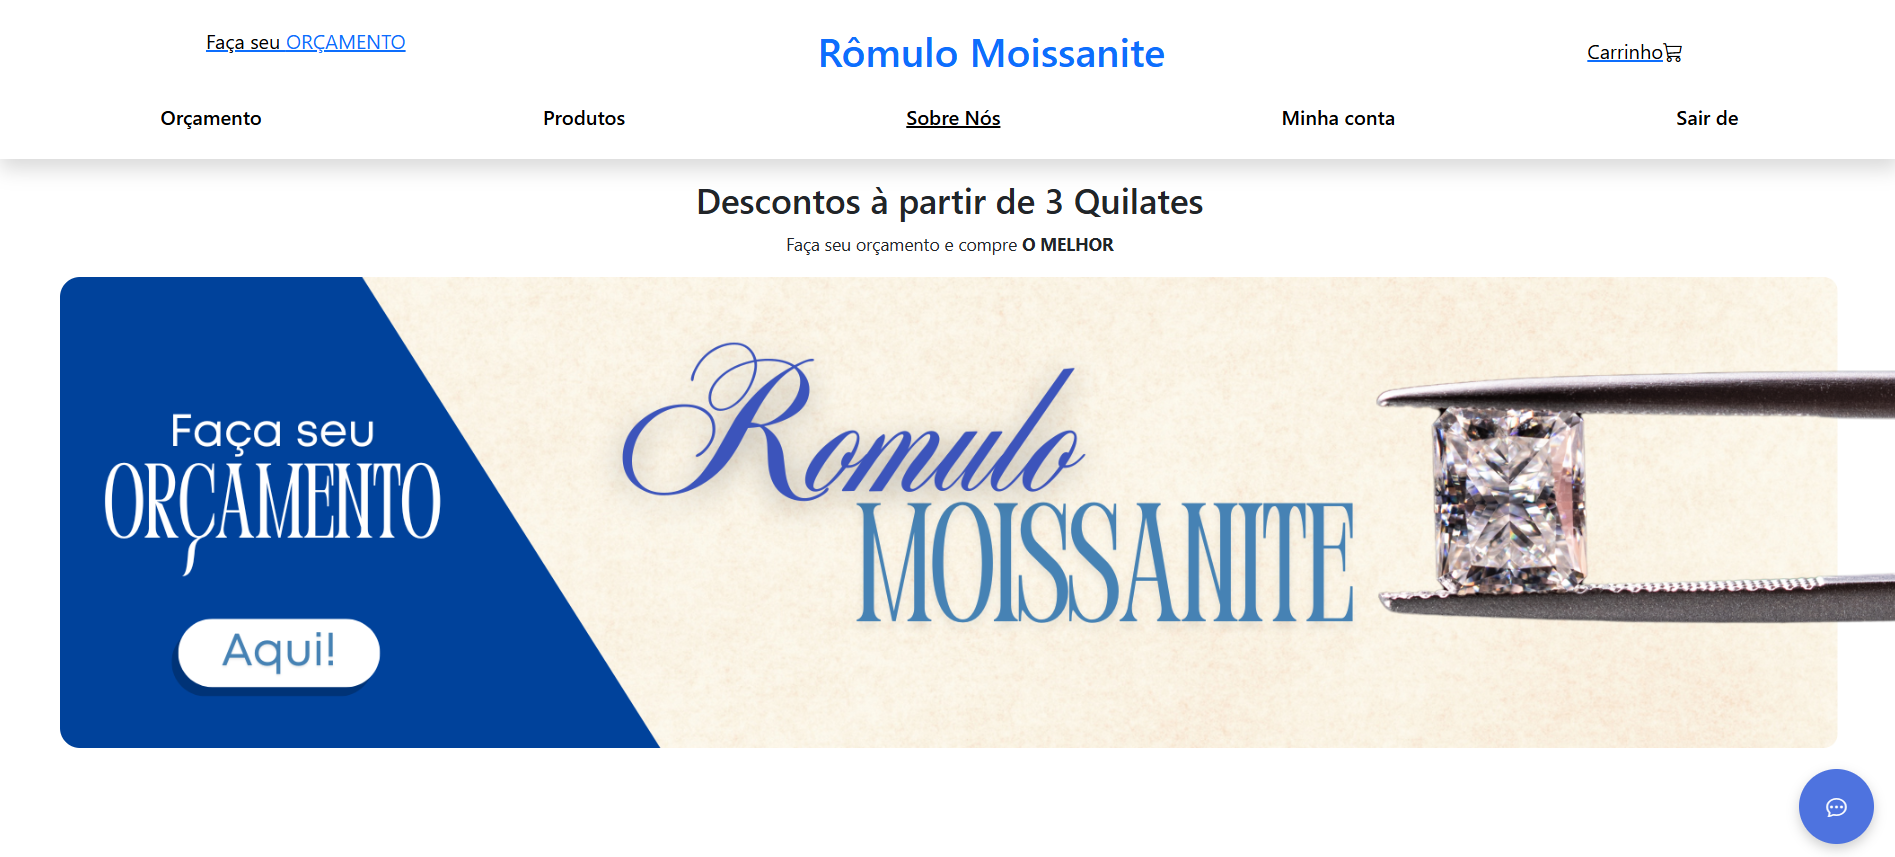
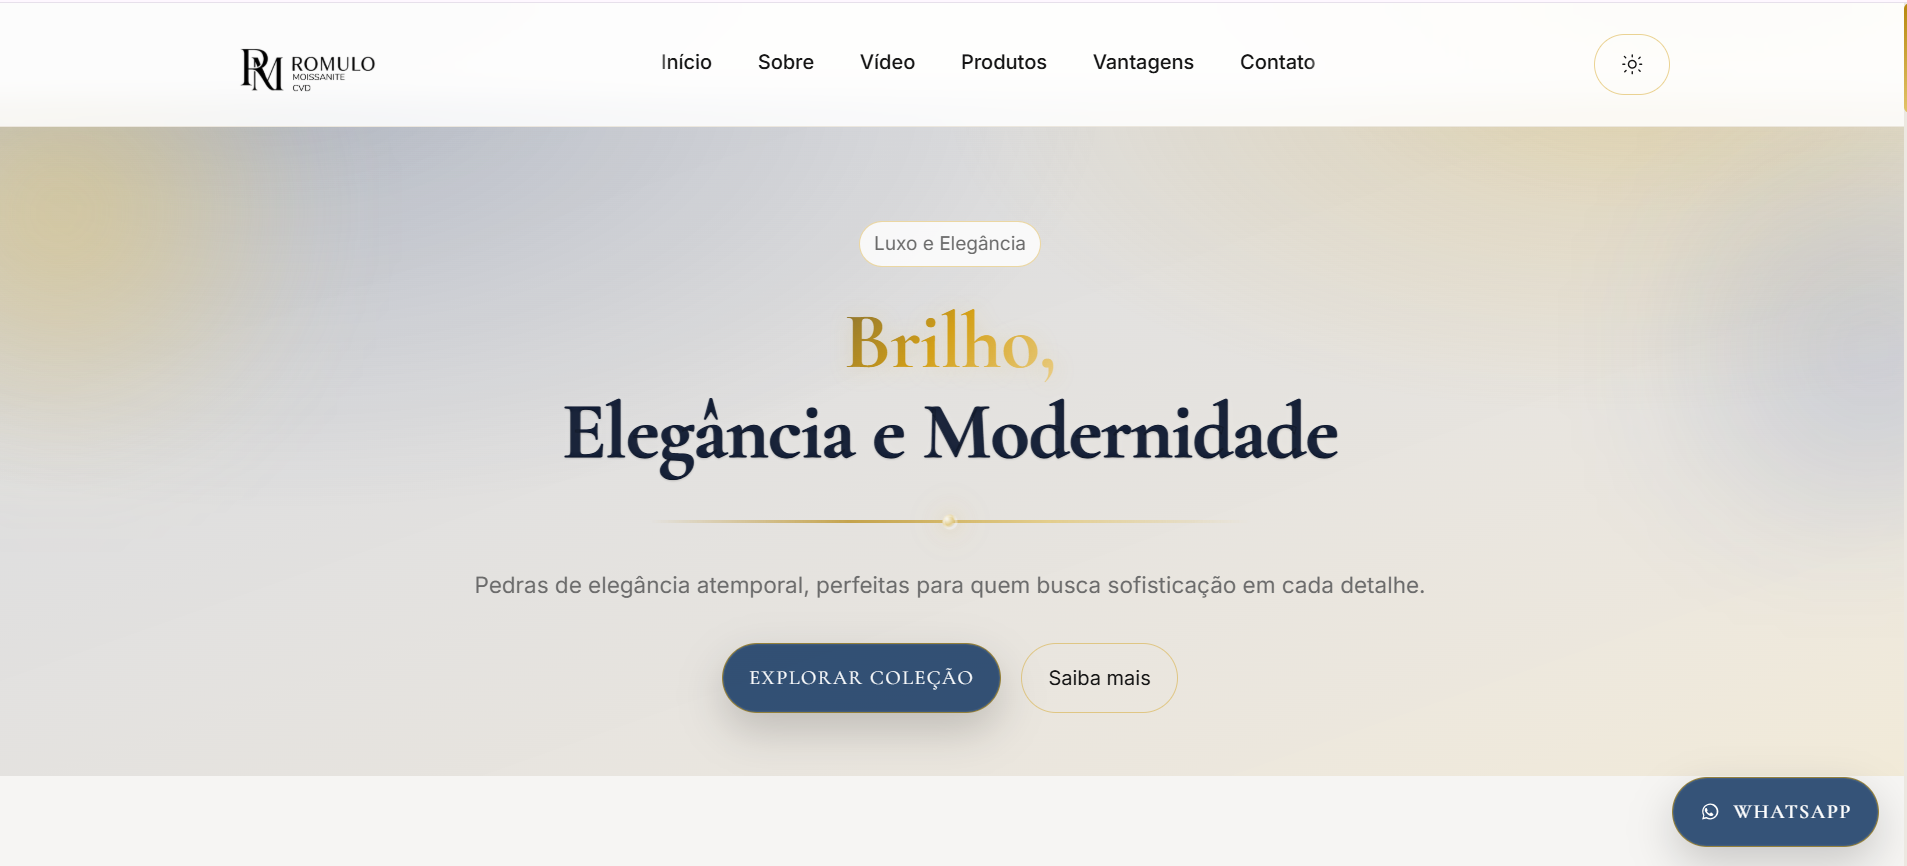
Updates

diff --git a/index.html b/index.html
@@ -5,7 +5,7 @@
     <link rel="icon" type="image/svg+xml" href="/vite.svg" />
     <meta name="viewport" content="width=device-width, initial-scale=1.0" />
     <title>Bruna Portifolio</title>
-    <script type="module" crossorigin src="/PortifolioBruna/assets/index-DRjD2Tdy.js"></script>
+    <script type="module" crossorigin src="/PortifolioBruna/assets/index-DUTFsJJp.js"></script>
     <link rel="stylesheet" crossorigin href="/PortifolioBruna/assets/index-Diqaah9i.css">
   </head>
   <body>